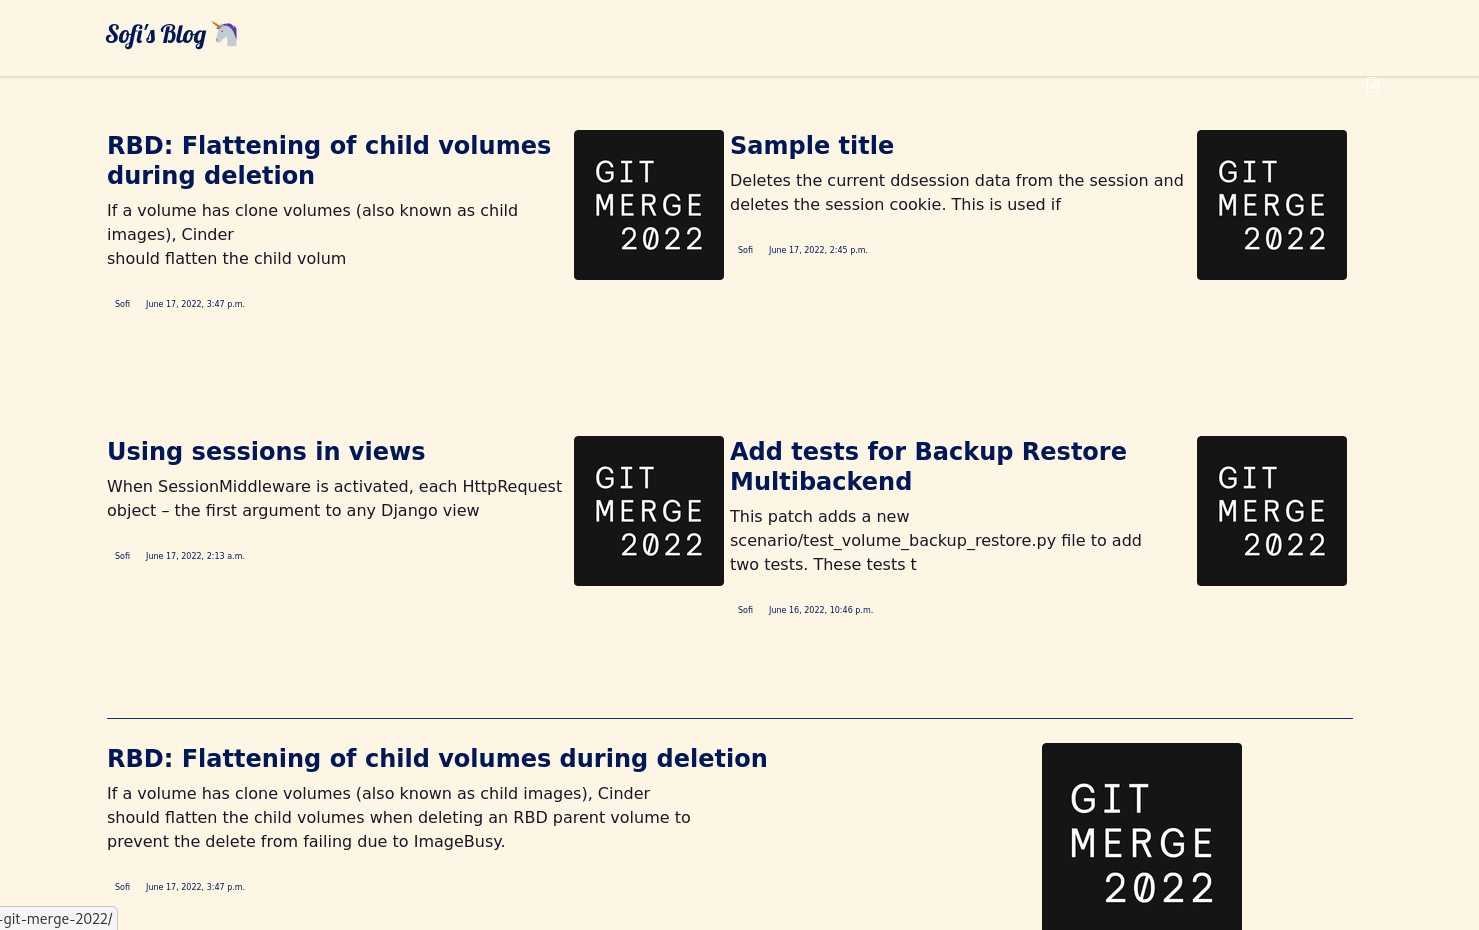
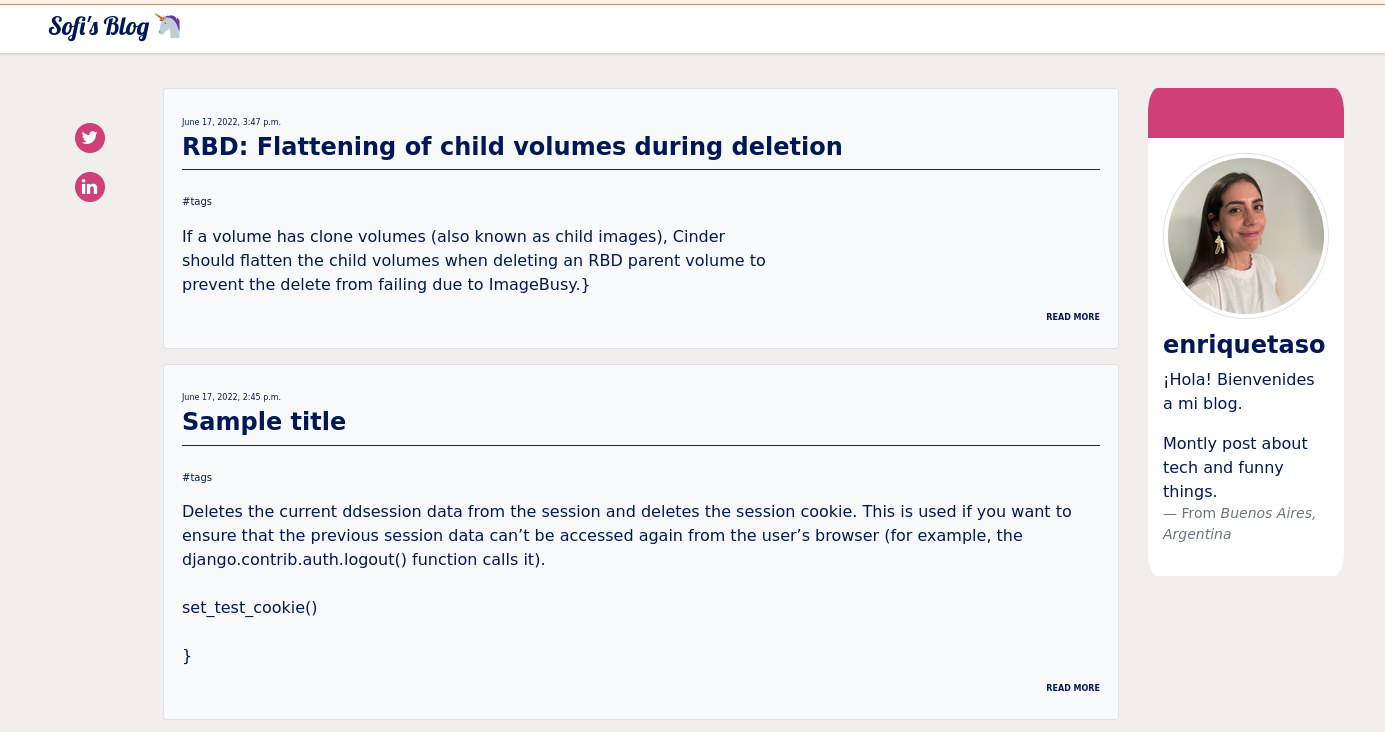
Style updated

diff --git a/blog/templates/blog/post_list.html b/blog/templates/blog/post_list.html
@@ -1,43 +1,22 @@
 {% extends 'blog/base.html' %}
 {% block content %}
-    <div class="d-flex flex-wrap flex-items-start gutter-spacious">
-        {% for post in posts %}
-            <article class="py-4 d-flex flex-column flex-md-row-reverse flex-items-start flex-wrap col-12 col-md-6">
-                <a class="d-block col-12 position-relative rounded-2 mb-4 overflow-hidden tease-thumbnail col-md-3" href="https://github.blog/2022-06-15-git-merge-2022/">
-                    <img srcset="https://github.blog/wp-content/uploads/2022/06/173149771-9945ea28-ddd5-42ec-971d-5d6c57862943.png?resize=200%2C200 200w,https://github.blog/wp-content/uploads/2022/06/173149771-9945ea28-ddd5-42ec-971d-5d6c57862943.png?resize=400%2C400 400w,https://github.blog/wp-content/uploads/2022/06/173149771-9945ea28-ddd5-42ec-971d-5d6c57862943.png?resize=500%2C500 600w" src="https://github.blog/wp-content/uploads/2022/06/173149771-9945ea28-ddd5-42ec-971d-5d6c57862943.png?resize=200%2C200" alt="Git Merge 2022" class="d-none d-md-block width-full height-auto rounded-2 tease-thumbnail__img cover-image" loading="lazy" decoding="async" width="150" height="150">
-                </a>
-                <div class="post col-12 col-md-9 pr-md-4 tease-text">
-                    <h3 class="h6-mktg mb-2"><a href="{% url 'post_detail' pk=post.pk %}">{{ post.title }}</a></h3>
-                    <p class="f4-mktg color-fg-muted">{{ post.text|linebreaksbr|slice:":100" }}</p>
-                    <div class="mt-12px">
-                        <div class="d-flex">
-                            <a class="mr-auto p-2 authors-wrap mr-12px mt-1 f5-mktg text-bold">{{ post.author }}</a>
-                            <time class="p-2 authors-wrap mr-12px mt-1 f5-mktg text-bold">{{ post.published_date }}</time>
-                        </div>
-                    </div>
-                </div>
-            </article>
-        {% endfor %}
-    </div>
-    <div class="thin-border">
-        <div class="d-flex flex-wrap flex-items-start gutter-spacious">
-            {% for post in posts %}
-                <article class="py-4 d-flex flex-column flex-md-row-reverse flex-items-start flex-wrap col-12">
-                    <a class="d-block col-12 position-relative rounded-2 mb-4 overflow-hidden tease-thumbnail col-md-3" href="https://github.blog/2022-06-15-git-merge-2022/">
-                        <img srcset="https://github.blog/wp-content/uploads/2022/06/173149771-9945ea28-ddd5-42ec-971d-5d6c57862943.png?resize=200%2C200 200w,https://github.blog/wp-content/uploads/2022/06/173149771-9945ea28-ddd5-42ec-971d-5d6c57862943.png?resize=400%2C400 400w,https://github.blog/wp-content/uploads/2022/06/173149771-9945ea28-ddd5-42ec-971d-5d6c57862943.png?resize=500%2C500 600w" src="https://github.blog/wp-content/uploads/2022/06/173149771-9945ea28-ddd5-42ec-971d-5d6c57862943.png?resize=200%2C200" alt="Git Merge 2022" class="d-none d-md-block width-full height-auto rounded-2 tease-thumbnail__img cover-image" loading="lazy" decoding="async" width="200" height="200">
-                    </a>
-                    <div class="post col-12 col-md-9 pr-md-4 tease-text">
-                        <h3 class="h6-mktg mb-2"><a href="{% url 'post_detail' pk=post.pk %}">{{ post.title }}</a></h3>
-                        <p class="f4-mktg color-fg-muted">{{ post.text|linebreaksbr|slice:":300" }}</p>
-                        <div class="mt-12px">
-                            <div class="d-flex">
-                                <a class="mr-auto p-2 authors-wrap mr-12px mt-1 f5-mktg text-bold">{{ post.author }}</a>
-                                <time class="p-2 authors-wrap mr-12px mt-1 f5-mktg text-bold">{{ post.published_date }}</time>
-                            </div>
-                        </div>
-                    </div>
-                </article>
-            {% endfor %}
-        </div>
-    </div>
+    {% for post in posts %}
+        <article class="post post-aux rounded d-grid gap-3 bg-light border">
+            <div class="p-2" style="margin:10px;">
+                {% if post.published_date %}
+                    <time class="date">
+                        {{ post.published_date }}
+                    </time>
+                {% endif %}
+                <h2 class="title h4 pb-2 mb-4 border-bottom border-dark">
+                    <a href="{% url 'post_detail' pk=post.pk %}">{{ post.title }}</a>
+                </h2>
+                <p class="border-success" style="font-size:10px; margin-bottom: 15px;">
+                    #tags
+                </p>
+                <p>{{ post.text|linebreaksbr|slice:":300" }}}</p>
+                <p class="h6 text-uppercase"><a class="link-readmore" href="{% url 'post_detail' pk=post.pk %}">Read More</a></p>
+            </div>
+        </article>
+    {% endfor %}
 {% endblock %}

diff --git a/blog/templates/blog/base.html b/blog/templates/blog/base.html
@@ -5,6 +5,7 @@
         <title>🦄 Sofi Blog</title>
         <link rel="stylesheet" href="https://cdn.jsdelivr.net/npm/bootstrap@5.1.3/dist/css/bootstrap.min.css" integrity="sha384-1BmE4kWBq78iYhFldvKuhfTAU6auU8tT94WrHftjDbrCEXSU1oBoqyl2QvZ6jIW3" crossorigin="anonymous">
         <link href='//fonts.googleapis.com/css?family=Lobster&subset=latin,latin-ext' rel='stylesheet' type='text/css'>
+        <link rel="stylesheet" href="https://cdnjs.cloudflare.com/ajax/libs/font-awesome/4.7.0/css/font-awesome.min.css">
         <link rel="stylesheet" href="{% static 'css/blog.css' %}">
     </head>
     <body>
@@ -19,12 +20,38 @@
             {% endif %}
             </nav>
         </div>
-        </header>
+        </header>        
         <main class="container">
             <div class="row">
+                <div class="col-1">
+                    <ul class="social list-group bg-transparent float-left">
+                        <li class="list-group-item border-0 bg-transparent"></li>
+                        <li class="list-group-item border-0 bg-transparent"></li>
+                        <li class="list-group-item border-0 bg-transparent">
+                          <a href="https://twitter.com/enriquetaso" target="_blank" title="Enriquetaso Twitter Profile">
+                            <span class="icon fa fa-twitter"></span>
+                          </a>
+                        </li>
+                        <li class="list-group-item border-0 bg-transparent">
+                          <a href="https://www.linkedin.com/in/enriquetaso/" target="_blank" title="Enriquetaso Linkedin Profile">
+                            <span class="icon fa fa-linkedin"></span>
+                          </a>
+                        </li>
+                      </ul>
+                    </div>
+                
                 <div class="col">
                 {% block content %}
                 {% endblock %}
+                </div>
+                <div class="col-2">
+                    <div style="margin-top: 5px; border-top:solid #cf3f78 50px ;padding:15px;border-radius:5%;background-color: #FFF;">
+                        <img src="{% static 'img/profile.jpg' %}" class="rounded-circle img-thumbnail" alt="Grumpy Cat">
+                        <h1 class="h4" style="font-family: 'Oswald', sans-serif !important;line-height:30px; font-family; sans-serif; margin-top:10px;"><strong>enriquetaso</strong></h1>
+                        <p>¡Hola! Bienvenides a mi blog.</p>
+                        <p>Montly post about tech and funny things.</p>
+                        <p class="blockquote-footer">From <cite title="Source Title">Buenos Aires, Argentina</cite></p>
+                    </div>
                 </div>
             </div>
         </main>
@@ -33,3 +60,4 @@
         </footer>
     </body>
 </html>
+                                                                                                                                                                                                            

diff --git a/blog/static/css/blog.css b/blog/static/css/blog.css
@@ -1,15 +1,16 @@
 body{
-    background-color: #fef6e4;
+    background-color: #f3eeee;
     font-family: "Roboto", sans-serif;
-    color: #1b1425;
+    color: #001858;
     box-sizing: border-box;
 }
 
 .page-header {
     margin-top: 0;
     margin-bottom: 30px;
-    padding: 20px 20px 20px 40px;
+    padding: 5px 5px;
     box-shadow: 0 4px 2px -2px rgba(0, 0, 0, 0.1);
+    background-color: #fff;
 }
 
 .page-header h1,
@@ -70,9 +71,19 @@ body{
 }
 
 /* post_list.html*/
-.thin-border{
-    border-top: 1px solid #172c66;
+
+.title {
+    color: #001858;
+    text-decoration: none;
+    font-family: sans-serif;
 }
+
+.title a, a:hover, a:focus, a:active {
+    text-decoration: none;
+    color: inherit;
+}
+
+
 .post-form textarea,
 .post-form input {
     width: 100%;
@@ -123,4 +134,54 @@ body{
     color: #001858;
     background-color: #f582ae;
     border-color: #f582ae;
+}
+
+
+
+/* social media base.html*/
+
+ul.social {
+    margin: 0;
+    padding: 0;
+    width: 100%;
+    text-align: center;
+  }
+  
+  ul.social > li > a {
+    display: inline-block;
+    font-size: 18px;
+    line-height: 30px;
+    width: 30px;
+    height: 30px;
+    border-radius: 36px;
+    background-color: #cf3f78;
+    color: #fff;
+    margin: 0 3px 3px 0;
+  }
+  
+  ul.social > li > a:hover {
+    text-decoration: none;
+    background-color: #001858;
+  }
+
+/* post list and post details base.html*/
+.post-aux {
+    background-color: #FFF;
+    margin: 5px;
+    margin-bottom: 15px;
+    border-radius:5%;
+}
+
+.link-readmore {
+    text-align: right;
+    display:block;
+    text-decoration: none;
+    color: #f582ae;
+    font-weight: 800;
+    font-size: 10px;
+}
+
+.date {
+    font-size:10px;
+    padding-bottom: 50px;
 }

diff --git a/blog/templates/blog/post_detail.html b/blog/templates/blog/post_detail.html
@@ -1,20 +1,25 @@
 {% extends 'blog/base.html' %}
 
 {% block content %}
-    <article class="post">
-        {% if post.published_date %}
-            <time class="date">
-                {{ post.published_date }}
-            </time>
-        {% endif %}
-        <h2>{{ post.title }}</h2>
-        <p>{{ post.text|linebreaksbr }}</p>
-        <aside class="actions">
-            {% if user.is_authenticated %}
-                <a class="btn btn-secondary" href="{% url 'post_edit' pk=post.pk %}">
-                {% include './icons/pencil-fill.svg' %}
-                </a>
+    <article class="post post-aux rounded d-grid gap-3 bg-light border">
+        <div class="p-2" style="margin:10px;">
+            {% if post.published_date %}
+                <time class="date">
+                    {{ post.published_date }}
+                </time>
             {% endif %}
-        </aside>
+            <h2 class="title h4 pb-2 mb-4 border-bottom border-dark">
+                {{ post.title }}
+            </h2>
+            <p>{{ post.text|linebreaksbr }}</p>
+            <aside class="actions">
+                {% if user.is_authenticated %}
+                    <a class="btn btn-secondary" href="{% url 'post_edit' pk=post.pk %}">
+                    {% include './icons/pencil-fill.svg' %}
+                    </a>
+                {% endif %}
+            </aside>
+            <p class="h6 text-uppercase"><a class="link-readmore" href="{% url 'post_list' %}">Back</a></p>
+        </div>
     </article>
 {% endblock %}
